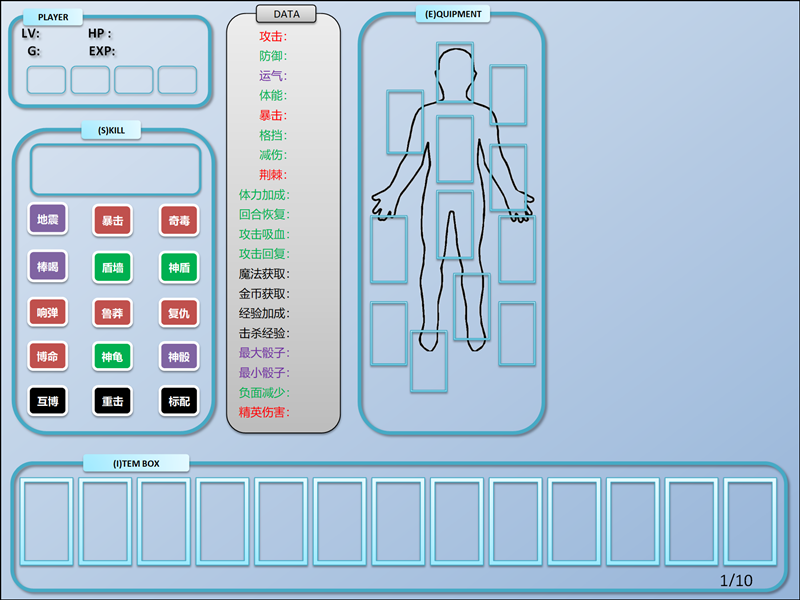
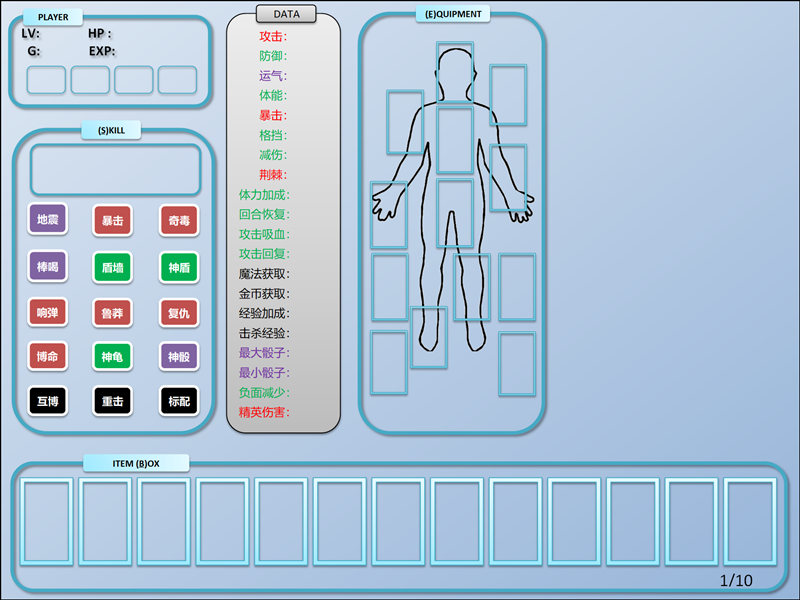
select equiped items

diff --git a/materials/info_layer/__init__.py b/materials/info_layer/__init__.py
@@ -30,11 +30,74 @@ labels['player_value_label'] = cocos.text.Label('',
 
 
 skill_select_image = pyglet.image.load(os.path.abspath(const.SKILL_SELECT_IMG_FILE)) 
+item_select_image =  pyglet.image.load(os.path.abspath(const.ITEM_SELECT_IMG_FILE)) 
 
 sprites = {}
 
 sprites['skill_select'] = cocos.sprite.Sprite(skill_select_image, position=(45, 520))
 sprites['skill_choose'] = cocos.sprite.Sprite(skill_select_image, position=(45, 400))
+
+for n in range(13):
+    sprites['equiped_item' + str(n)] = cocos.sprite.Sprite(materials.item_image[0], position=(0,0))
+    _start_x = 455
+    _start_y = 527
+    # main hand
+    if n == 0:
+        _tx = _start_x - 66
+        _ty = _start_y - 291
+    # off hand
+    elif n == 1:
+        _tx = _start_x + 63
+        _ty = _start_y - 291
+    # head
+    elif n == 2:
+        _tx = _start_x
+        _ty = _start_y
+    # shoulder
+    elif n == 3:
+        _tx = _start_x - 50
+        _ty = _start_y - 50
+    # necklace
+    elif n == 4:
+        _tx = _start_x + 53
+        _ty = _start_y - 23
+    #chest
+    elif n == 5:
+        _tx = _start_x
+        _ty = _start_y - 68
+    # wrist
+    elif n == 6:
+        _tx = _start_x + 53
+        _ty = _start_y - 105
+    # gloove
+    elif n == 7:
+        _tx = _start_x - 66
+        _ty = _start_y - 145
+    # waist    
+    elif n == 8:
+        _tx = _start_x
+        _ty = _start_y - 140
+    # leg
+    elif n == 9:
+        _tx = _start_x + 17
+        _ty = _start_y - 215
+    # shoe
+    elif n == 10:
+        _tx = _start_x - 26
+        _ty = _start_y - 265
+    # ringA
+    elif n == 11:
+        _tx = _start_x - 64
+        _ty = _start_y - 215
+    # ringB
+    elif n == 12:
+        _tx = _start_x + 63
+        _ty = _start_y - 215
+    
+    sprites['equiped_item' + str(n)].position = _tx, _ty
+
+sprites['equiped_item_select'] = cocos.sprite.Sprite(item_select_image, position=(350, 400))
+sprites['item_box_select'] = cocos.sprite.Sprite(item_select_image, position=(45, 100))
 #bg_music = materials.Audio(Const.BG_MUSIC_FILE)
 
 class Info_Layer(Layer):
@@ -61,9 +124,12 @@ class Info_Layer(Layer):
             for _, _sprite in materials.info_layer.sprites.items():
                 self.add(_sprite)
                 _sprite.visible = False
+        
 
         materials.info_layer.sprites['skill_select'].scale = 0.4
         materials.info_layer.sprites['skill_choose'].scale = 0.4
+        materials.info_layer.sprites['equiped_item_select'].scale = 0.3
+        materials.info_layer.sprites['item_box_select'].scale = 0.4
 
         self.game = game
         self.image = materials.images['info_layer_img']
@@ -93,14 +159,38 @@ class Info_Layer(Layer):
                 pass
             elif 'UP' in key_names:
                 pass
-            elif 'DOWN' in key_names:
-                pass
+            # check the equiped item
+            elif 'E' in key_names:
+                self.item_equiped_selected = 0
+                self.status = 'equiped_item_select'
+                materials.info_layer.equiped_item_select(self.game.player, 0)
+                
             # set skill
             elif 'S' in key_names and self.game.game_status == 'END':
                 self.skill_selected = 0
                 materials.info_layer.skill_select(self.game.player, 0)
                 self.status = 'skill'
 
+        elif self.status == 'equiped_item_select':
+            if 'LEFT' in key_names:
+                if self.item_equiped_selected > 0:
+                    self.item_equiped_selected -= 1
+                    materials.info_layer.equiped_item_select(self.game.player, self.item_equiped_selected)
+                else:
+                    self.item_equiped_selected = 12
+                    materials.info_layer.equiped_item_select(self.game.player, self.item_equiped_selected)
+
+            elif 'RIGHT' in key_names:
+                if self.item_equiped_selected < 12:
+                    self.item_equiped_selected += 1
+                    materials.info_layer.equiped_item_select(self.game.player, self.item_equiped_selected)
+                else:
+                    self.item_equiped_selected = 0
+                    materials.info_layer.equiped_item_select(self.game.player, self.item_equiped_selected)
+                        
+            elif 'SPACE' in key_names:
+                materials.info_layer.equiped_item_select()
+                self.status = 'view'
         elif self.status == 'skill':
             # you get n skills when your level is:
             # n=1, lv 1-9
@@ -219,3 +309,68 @@ def skill_choose(n=None):
         sprites['skill_choose'].y = 379 - 45 * (n // 3)
         sprites['skill_choose'].visible = True
         labels['skill_description_label'].element.text = const.SKILL_DATA[n]['description']
+
+def equiped_item_select(_player=None, n=None):
+    if n is None:
+        sprites['equiped_item_select'].visible = False
+    elif n <= 12:
+        _start_x = 455
+        _start_y = 527
+        # main hand
+        if n == 0:
+            _tx = _start_x - 65
+            _ty = _start_y - 291
+        # off hand
+        elif n == 1:
+            _tx = _start_x + 63
+            _ty = _start_y - 291
+        # head
+        elif n == 2:
+            _tx = _start_x
+            _ty = _start_y
+        # shoulder
+        elif n == 3:
+            _tx = _start_x - 47
+            _ty = _start_y - 50
+        # necklace
+        elif n == 4:
+            _tx = _start_x + 53
+            _ty = _start_y - 23
+        #chest
+        elif n == 5:
+            _tx = _start_x
+            _ty = _start_y - 68
+        # wrist
+        elif n == 6:
+            _tx = _start_x + 53
+            _ty = _start_y - 105
+        # gloove
+        elif n == 7:
+            _tx = _start_x - 65
+            _ty = _start_y - 145
+        # waist    
+        elif n == 8:
+            _tx = _start_x
+            _ty = _start_y - 140
+        # leg
+        elif n == 9:
+            _tx = _start_x + 17
+            _ty = _start_y - 215
+        # shoe
+        elif n == 10:
+            _tx = _start_x - 24
+            _ty = _start_y - 265
+        # ringA
+        elif n == 11:
+            _tx = _start_x - 64
+            _ty = _start_y - 215
+        # ringB
+        elif n == 12:
+            _tx = _start_x + 63
+            _ty = _start_y - 215
+        
+        sprites['equiped_item_select'].x = _tx
+        sprites['equiped_item_select'].y = _ty
+        sprites['equiped_item_select'].visible = True
+
+

diff --git a/igame.py b/igame.py
@@ -126,12 +126,32 @@ class Game(object):
         _value_string += str(int(self.player.value['EliteDamage'])) + '%' + ' '
         materials.info_layer.labels['player_value_label'].element.text = _value_string
 
+        for _ in range(13):
+            materials.info_layer.sprites['equiped_item' + str(_)].visible = True
+            materials.info_layer.sprites['equiped_item' + str(_)].scale = 0.5
+            materials.info_layer.sprites['equiped_item' + str(_)].image = materials.item_image[(59-self.player.item_equiped[_].type) * 5 + self.player.item_equiped[_].rare_type]
+
     def screen_set_focus(self, x, y):
         game_screen.set_focus(self.player.sprite.x, self.player.sprite.y)
     
     def show_menu(self):
         self.game_status = 'END'
         director.replace(FlipY3DTransition(Scene(my_menu)))
+    
+    """ The Save & Load methods need to be rewrited
+
+    def save(self):
+        with open(const.SAVE_FILE,'wb') as f:
+            pickle.dump(self.player, f, -1)
+
+    def load(self):
+        with open(const.SAVE_FILE,'rb') as f:
+            _player = pickle.load(f)
+            _player.sprite = materials.main_scr.sprites['player_sprite']
+            _player.show_player()
+            return _player
+    """
+    
 
 
 if __name__ == '__main__':

diff --git a/materials/main_scr/__init__.py b/materials/main_scr/__init__.py
@@ -217,6 +217,7 @@ class Main_Screen(ScrollableLayer):
                 elif 'SPACE' in key_names:
                     pass
             elif 'DOWN' in key_names:
+                #self.game.save()
                 self.game.enemy = enemy.gen_enemy(None, None, self.game.zone, random.randrange(self.game.zone * 10 + 1, (self.game.zone + 1) * 10))
                 if self.game.enemy:
                     self.game.game_status = 'STARTED'

diff --git a/data/player.py b/data/player.py
@@ -335,16 +335,3 @@ def dice_equal(player, enemy):
     
     player.cri_dice += 1
 
-def save(_player):
-    with open(const.SAVE_FILE,'wb') as f:
-        pickle.dump(_player, f, -1)
-
-def load():
-    with open(const.SAVE_FILE,'rb') as f:
-        _player = pickle.load(f)
-        _player.sprite = materials.main_scr.sprites['player_sprite']
-        _player.show_player()
-        return _player
-
-    
-

diff --git a/materials/menu/__init__.py b/materials/menu/__init__.py
@@ -91,7 +91,8 @@ class Menu_Screen(Layer):
                 self.game.player.show_player()
                 self.game.player.zone = 1
             elif self.game.enter == 0:
-                self.game.player = player.load()
+                pass
+                #self.game.player = self.game.load()
             else:
                 print('game enter error!')
                 sys.exit()

diff --git a/data/const.py b/data/const.py
@@ -59,6 +59,7 @@ ITEM_IMG_FILE = './pic/item.png'
 DICE_IMG_FILE = './pic/dice.png'
 RIP_IMG_FILE = './pic/rip.png'
 ICON_SELECT_IMG_FILE = './pic/icon_select.png'
+ITEM_SELECT_IMG_FILE = './pic/item_select.png'
 SKILL_SELECT_IMG_FILE = './pic/skill_select.png'
 ITEM_BOX_IMG_FILE = './pic/item_box.png'
 ATTACK_STYLE_IMG_FILE = './pic/item_box.png'
